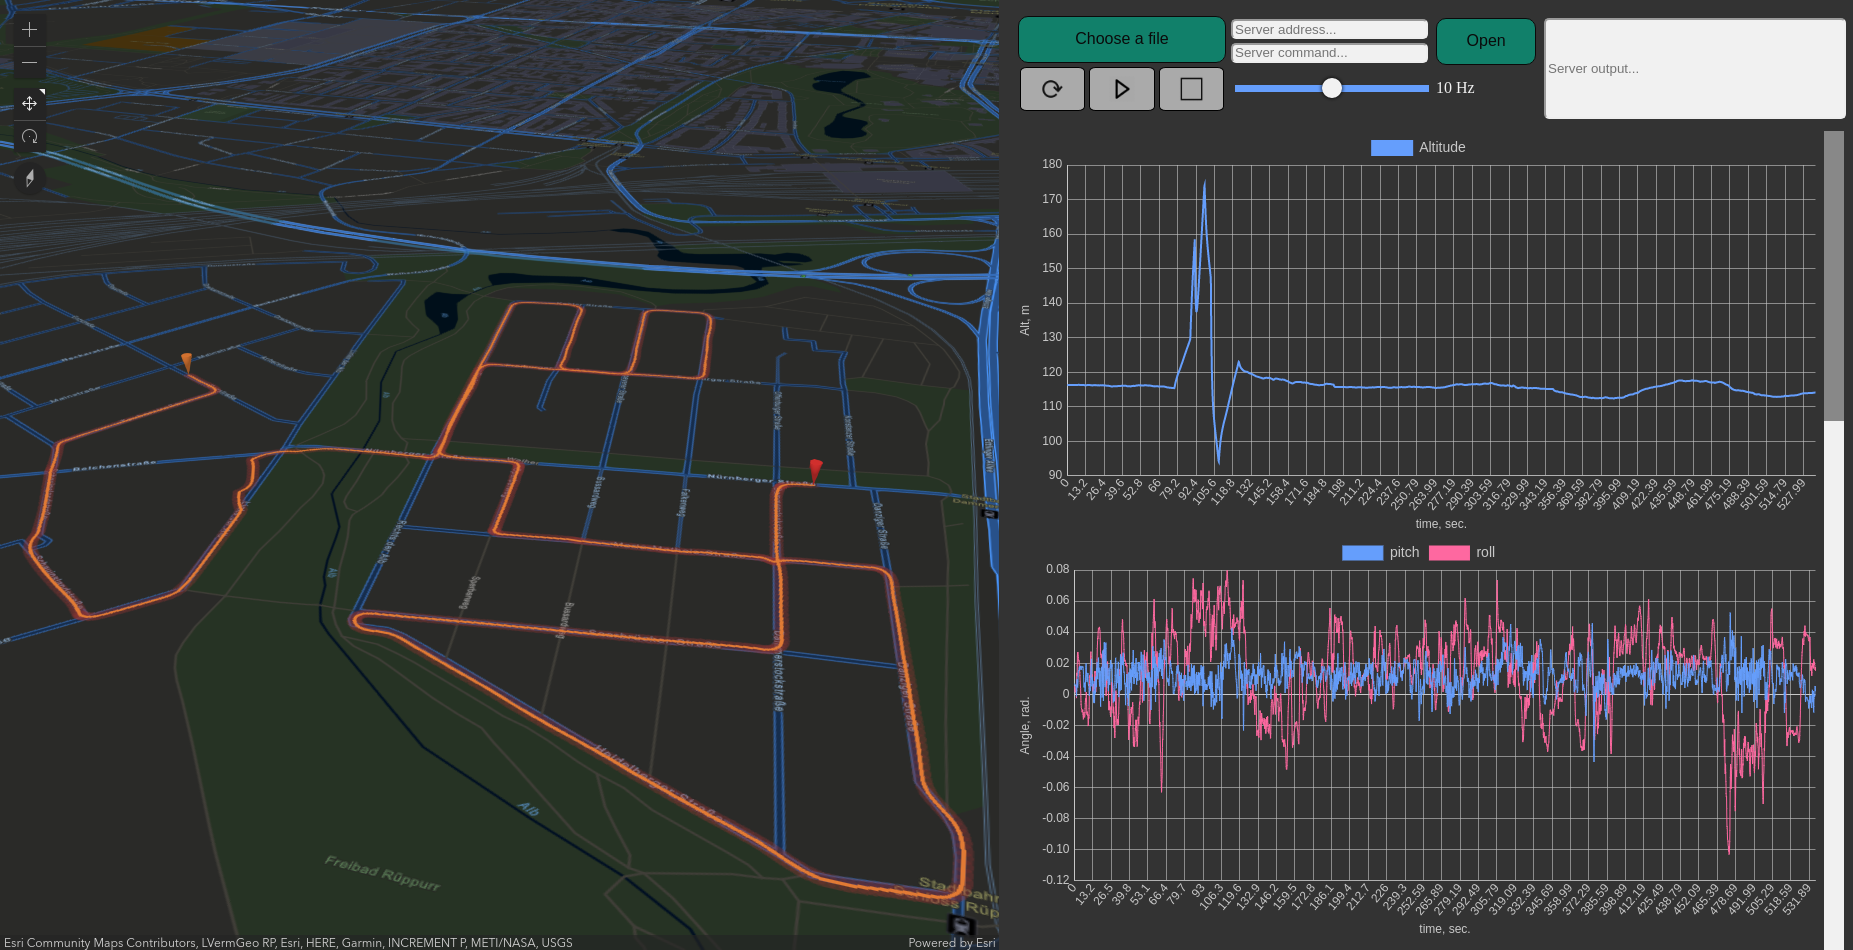
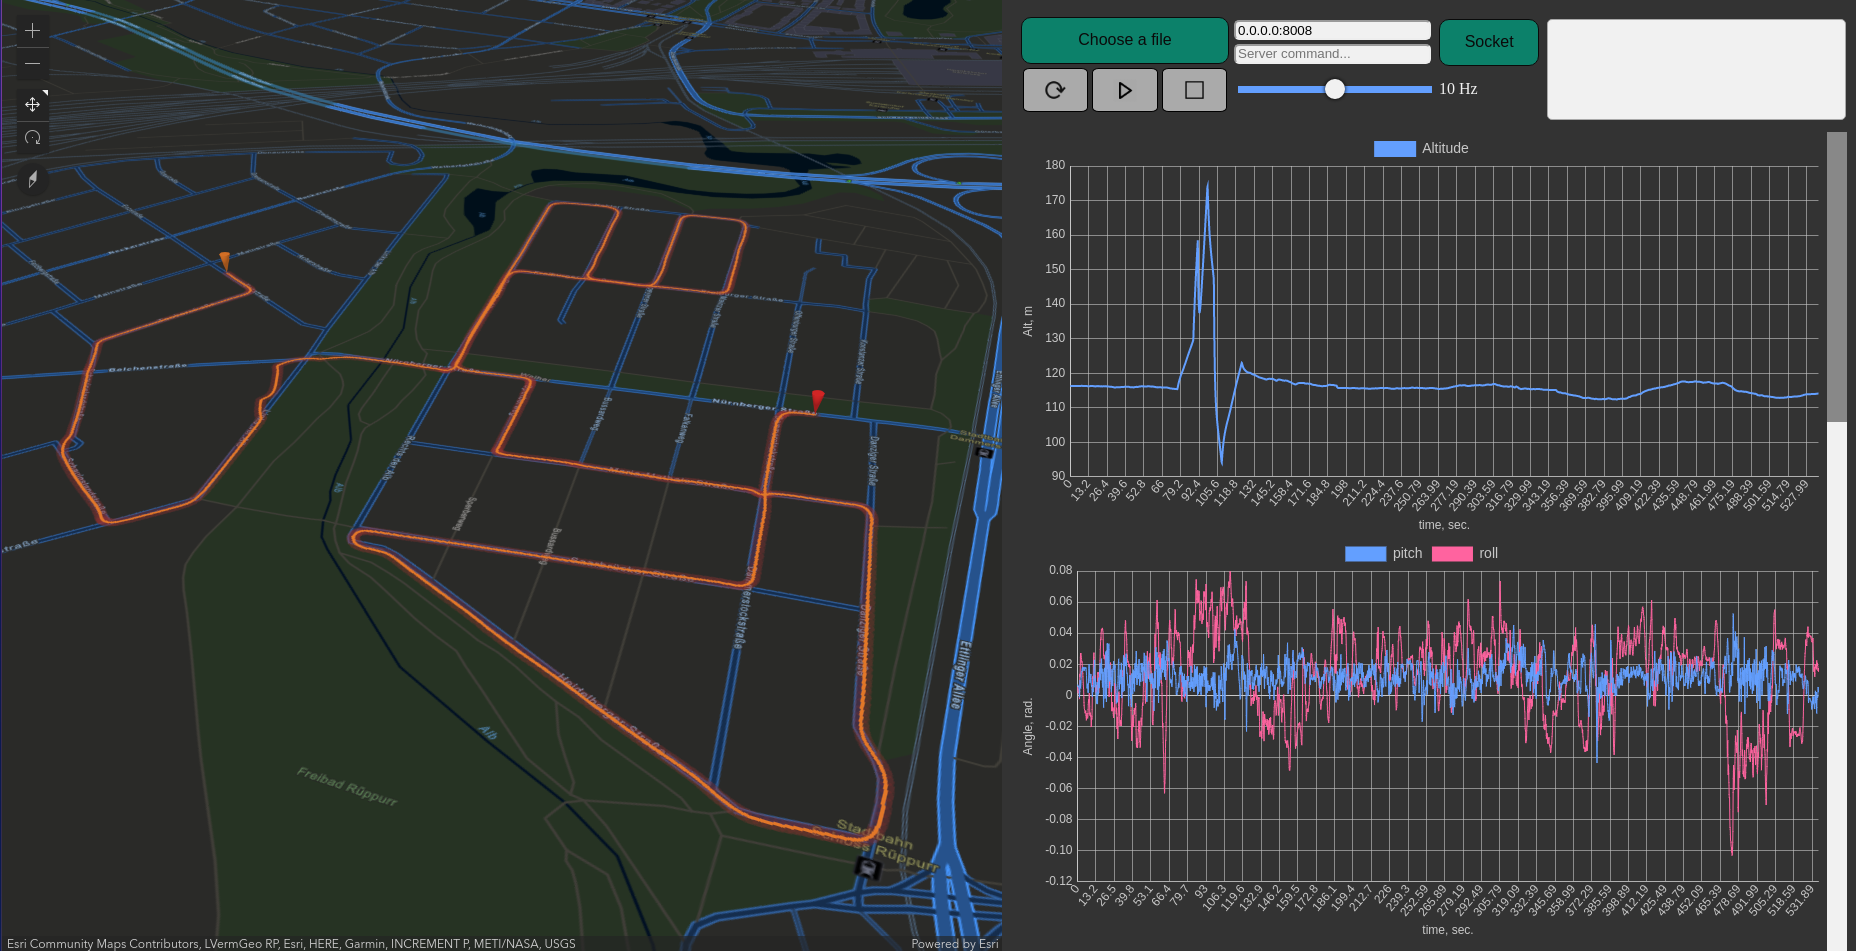
basic functionality done

diff --git a/client/index.html b/client/index.html
@@ -26,7 +26,7 @@
 
                 <div id="left-buttons">
                     <button class="player-buttons" id="zoom-reset">
-                        <img src="./img/reset-bold.png" class="button-img"/>
+                        <img src="./img/reset-bold.png" class="button-img" id="reset-img"/>
                     </button>
 
                     <button class="player-buttons" id="play">
@@ -34,7 +34,7 @@
                     </button>
 
                     <button class="player-buttons" id="stop">
-                        <img src="./img/stop-bold.png" class="button-img"/>
+                        <img src="./img/stop-bold.png" class="button-img" id="stop-button-img"/>
                     </button>
                 </div>
             </div>
@@ -47,7 +47,7 @@
                         <input type="text" class="server-input-field" id="server-command-inp" placeholder="Server command...">
                     </div>
 
-                    <button type="button" id="server-start-button">Open</button>
+                    <button type="button" id="server-start-button">Socket</button>
                 </div>
 
                 <div id="freq-input">

diff --git a/client/css/style.css b/client/css/style.css
@@ -89,7 +89,16 @@ html, body {
                         display: block;
                         margin-left: auto;
                         margin-right: auto;
+                    }
+
+                    #reset-img {
                         width: 50%;
+                    }
+                    #play-button-img {
+                        width: 45%;
+                    }
+                    #stop-button-img {
+                        width: 40%;
                     }
 
                 .player-buttons:hover { 

diff --git a/client/js/animation.js b/client/js/animation.js
@@ -80,6 +80,6 @@ export function switchInputBtnStatus(status=true) {
     // window.myGlobs.buttons.playBtn.disabled = status;
     window.myGlobs.buttons.stopBtn.disabled = status;
     window.myGlobs.buttons.range.disabled = status;
-    window.myGlobs.buttons.serverBtn.innerHTML = status ? "Close" : "Open";
+    window.myGlobs.buttons.serverBtn.innerHTML = status ? "Close" : "Socket";
     window.myGlobs.io.serverAdressInput.disabled = status;
 }

diff --git a/embedded_server_proto/src/websocket_server.cpp b/embedded_server_proto/src/websocket_server.cpp
@@ -13,118 +13,9 @@
 //
 //------------------------------------------------------------------------------
 
-#include <boost/beast/core.hpp>
-#include <boost/beast/websocket.hpp>
-#include <boost/asio/ip/tcp.hpp>
 #include <cstdlib>
 #include <functional>
-#include <iostream>
-#include <fstream>
-#include <string>
-#include <thread>
-#include <pthread.h>
-
-using tcp = boost::asio::ip::tcp;               // from <boost/asio/ip/tcp.hpp>
-namespace websocket = boost::beast::websocket;  // from <boost/beast/websocket.hpp>
-
-//------------------------------------------------------------------------------
-
-class File {
-public:
-    std::ifstream input_;
-    std::string str_;
-
-    File(std::string path) {
-        input_.open(path);
-        if (!input_.is_open()) {
-            std::exit(EXIT_FAILURE);
-        }
-        // keep the first row with the columns names
-    };
-
-    // void iter(websocket::stream<tcp::socket>& ws_) {
-    //     while ( std::getline(input_, str_, '\n') ) {
-    //         ws_.write(boost::asio::buffer(str_));
-    //     };
-    // };
-
-    // void startStream(websocket::stream<tcp::socket>& ws_) {
-    //     ThreadMap::const_iterator it = tm_.find("stream");
-    //     if (it == tm_.end()) { // create new thread only if not found one
-    //         std::thread thrd = std::thread(&File::iter, this, ws_);
-    //         tm_["stream"] = thrd.native_handle();
-    //         thrd.detach();
-    //         std::cout << "Thread created!" << std::endl;
-    //     }
-    // };
-
-    // void stopStream() {
-    //     ThreadMap::const_iterator it = tm_.find("stream");
-    //     if (it != tm_.end()) {
-    //         pthread_cancel(it->second);
-    //         tm_.erase("stream");
-    //         std::cout << "Thread killed!" << std::endl;
-    //     }
-    // };
-
-private:
-    typedef std::unordered_map<std::string, pthread_t> ThreadMap;
-    ThreadMap tm_;
-};
-
-// Echoes back all received WebSocket messages
-void
-do_session(tcp::socket& socket)
-{
-    try
-    {
-        // Construct the stream by moving in the socket
-        websocket::stream<tcp::socket> ws{std::move(socket)};
-
-        // read a `demo` file
-        File file("../../data/sample.csv");
-
-        // Accept the websocket handshake
-        ws.accept();
-        std::string command, output;
-
-        for(;;)
-        {
-            // This buffer will hold the incoming message
-            boost::beast::multi_buffer buffer;
-
-            // Read a message
-            ws.read(buffer);
-            ws.text(ws.got_text());
-            command = boost::beast::buffers_to_string(buffer.data());
-
-            // check the command
-            if ( command == "start stream" ) {
-                while ( std::getline(file.input_, file.str_, '\n') ) { // quick hack
-                    ws.write(boost::asio::buffer(file.str_));
-                };
-                // file.startStream(ws);
-            } else if ( command == "stop stream" ) {
-                // file.stopStream();
-            } else {
-                // Echo the message back
-                ws.write(buffer.data());
-            }
-        }
-    }
-    catch(boost::system::system_error const& se)
-    {
-        // This indicates that the session was closed
-        if(se.code() != websocket::error::closed)
-            std::cerr << "Error: " << se.code().message() << std::endl;
-    }
-    catch(std::exception const& e)
-    {
-        std::cerr << "Error: " << e.what() << std::endl;
-    }
-}
-
-//------------------------------------------------------------------------------
+#include "session_processor.hpp"
 
 int main(int argc, char* argv[])
 {
@@ -141,6 +32,7 @@ int main(int argc, char* argv[])
         }
         auto const address = boost::asio::ip::make_address(argv[1]);
         auto const port = static_cast<unsigned short>(std::atoi(argv[2]));
+        const std::string path = "../../data/sample.csv";
 
         // The io_context is required for all I/O
         boost::asio::io_context ioc{1};
@@ -158,8 +50,8 @@ int main(int argc, char* argv[])
 
             // Launch the session, transferring ownership of the socket
             std::thread{std::bind(
-                &do_session,
-                std::move(socket))}.detach();
+                &do_session, 
+                std::move(socket), path)}.detach();
         }
     }
     catch (const std::exception& e)

diff --git a/embedded_server_proto/src/session_processor.hpp b/embedded_server_proto/src/session_processor.hpp
@@ -1,0 +1,73 @@
+#pragma once
+#include <boost/beast/core.hpp>
+#include <boost/beast/websocket.hpp>
+#include <boost/asio/ip/tcp.hpp>
+#include <string>
+#include <thread>
+#include <fstream>
+#include <iostream>
+#include <pthread.h>
+
+using tcp = boost::asio::ip::tcp;               // from <boost/asio/ip/tcp.hpp>
+namespace websocket = boost::beast::websocket;  // from <boost/beast/websocket.hpp>
+
+//------------------------------------------------------------------------------
+
+struct File {
+    std::ifstream input;
+
+    File() : input("") {};
+    File(std::string path) {
+        // keep the first row with the columns names
+        input.open(path);
+        if (!input.is_open()) {
+            std::exit(EXIT_FAILURE);
+        }
+    }
+    ~File() {
+        input.close();
+    }
+};
+
+void do_session(tcp::socket& socket, std::string& path) {
+    try {
+        // read a `demo` file
+        File file(path);
+
+        // Construct the stream by moving in the socket
+        websocket::stream<tcp::socket> ws{std::move(socket)};
+
+        // Accept the websocket handshake
+        ws.accept();
+        std::string command, output;
+
+        for(;;) {
+            // This buffer will hold the incoming message
+            boost::beast::multi_buffer buffer;
+
+            // Read a message
+            ws.read(buffer);
+            ws.text(ws.got_text());
+            command = boost::beast::buffers_to_string(buffer.data());
+
+            // check the command
+            if ( command == "start stream" ) {
+                // block until the whole file will be transmitted
+                while ( std::getline(file.input, output, '\n') ) {
+                    ws.write(boost::asio::buffer(output));
+                };
+            } else {
+                // Echo the message back
+                ws.write(buffer.data());
+            }
+        }
+    }
+    catch(boost::system::system_error const& se) {
+        // This indicates that the session was closed
+        if(se.code() != websocket::error::closed)
+            std::cerr << "Error: " << se.code().message() << std::endl;
+    }
+    catch(std::exception const& e) {
+        std::cerr << "Error: " << e.what() << std::endl;
+    }
+}

diff --git a/README.md b/README.md
@@ -8,28 +8,26 @@ https://gasparian.github.io/telemetry_monitor/client/
 If you're using [KITTI raw](http://www.cvlibs.net/datasets/kitti/raw_data.php) dataset, first [accumulate](https://gist.github.com/gasparian/7cd1b82e78a2ebefe895242616e87411) all GNSS/IMU readings.  
 In order to work with custom-formatted data, change implementation of `parseData()` methods in `./client/js/data_processors.js`.  
 
+### Control  
+
+
 ### To do:  
- - build server on C++ (use web-sockets --> boost.beast):  
-     - add commands processor on server;  
-     - add commands reference in a readme;  
+ - do something with state management (redux?);  
  - charts.js --> D3.js (?);  
  - work with graphs' zooming/panning;  
 
-### Libs  
+### Libs / APIs  
  - ArcGIS;  
- - charts.js;
- - hammerjs;  
+ - charts.js;  
+ - boost: asio + beast;  
 
+### Running client locally  
  Install:  
  - node;  
  - express: `npm init --yes` --> `npm i express`;  
-
- For local tests:  
  - nodemon: `npm i -g nodemon`;  
 
-### Running client  
-
-Server with auto-reloading:  
+Start server with auto-reloading:  
 ```
 nodemon app.js
 ```  
@@ -67,6 +65,7 @@ Run the server:
 ```
 ./websocket-server-sync 0.0.0.0 8008
 ```  
+Messages processing logic is implemented in `./embedded_server_proto/src/session_processor.hpp`-->`do_session`.  
 
 ### Kitti data format specs  
 ```
